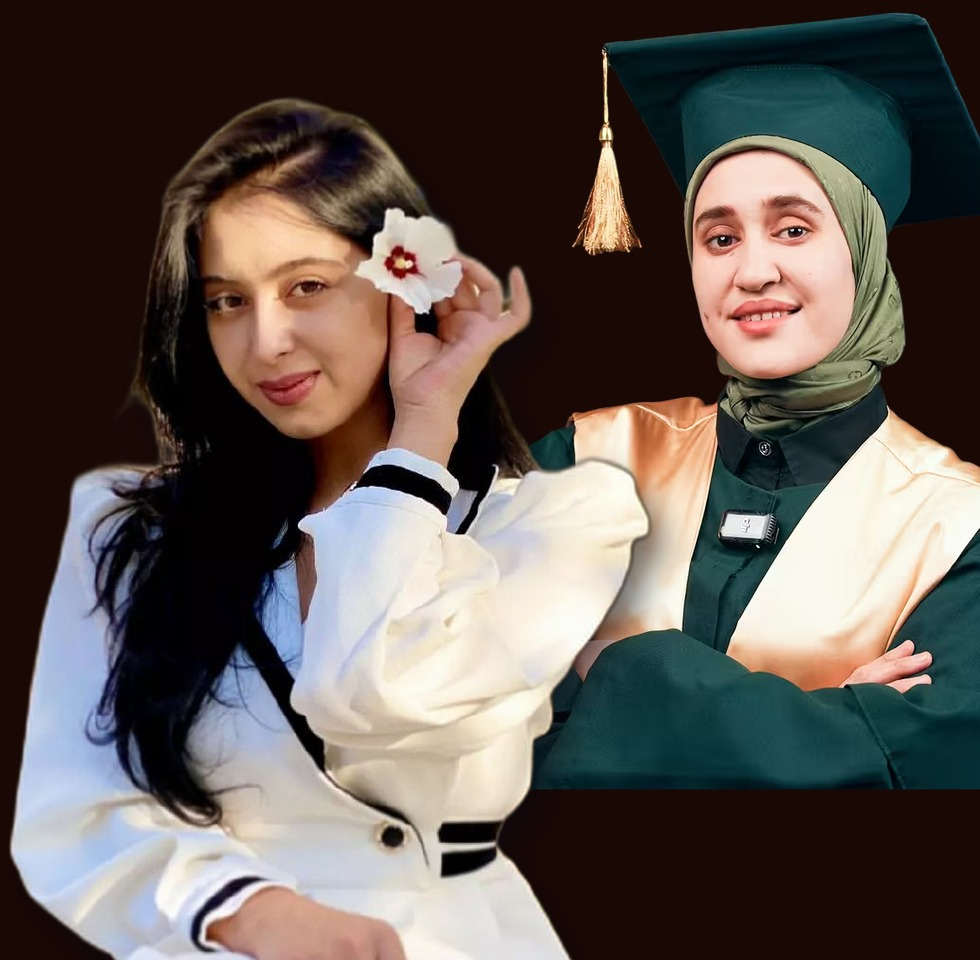
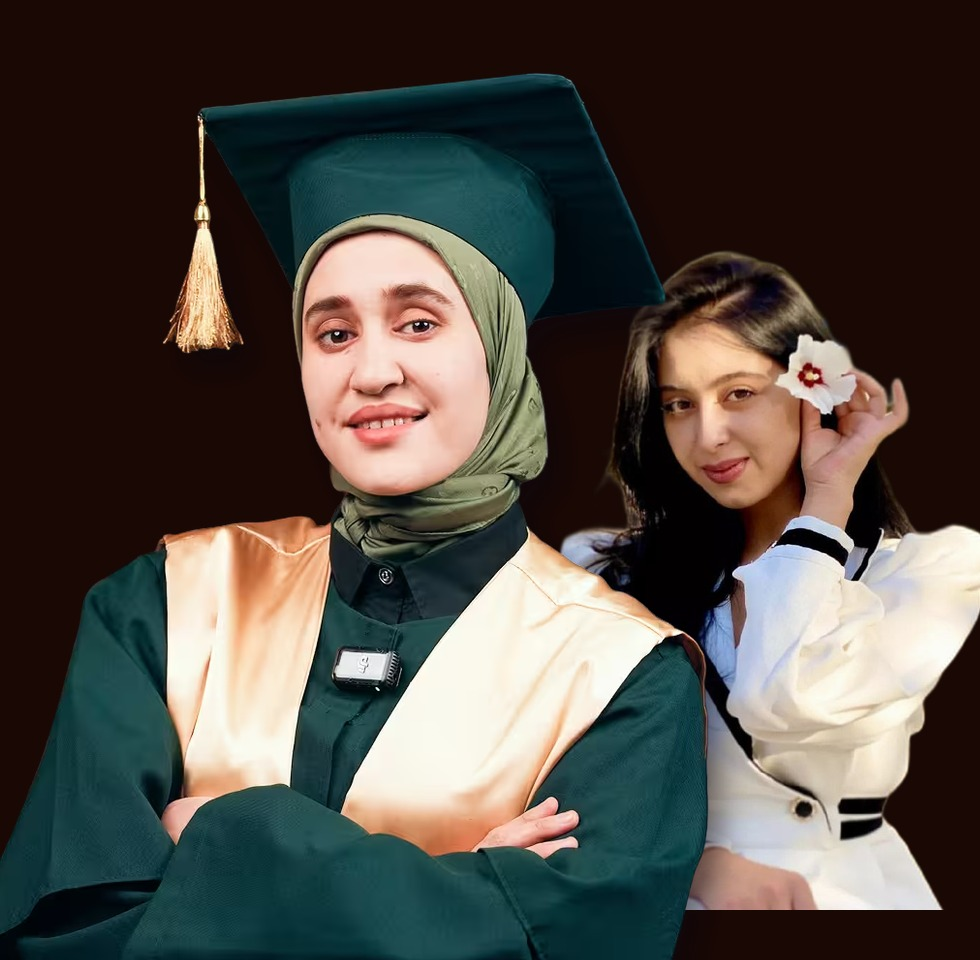
zakirova sahifasida Irodahocani oldinga, Zakirovani orqaga qilib rasmni qayta tartiblash

diff --git a/landingpage/zakirova/index.html b/landingpage/zakirova/index.html
@@ -381,7 +381,7 @@ footer p{margin:0;font-size:11.5px;color:rgb(20 20 20 / .62);letter-spacing:.02e
 
     <div class="hero__media">
       <div class="hero__cutout">
-        <img src="./images/zakirova-duo.webp" alt="Dilbar Zakirova va Irodahoca" fetchpriority="high" width="980" height="960">
+        <img src="./images/zakirova-duo.webp" alt="Irodahoca va Dilbar Zakirova" fetchpriority="high" width="980" height="960">
       </div>
     </div>
 
